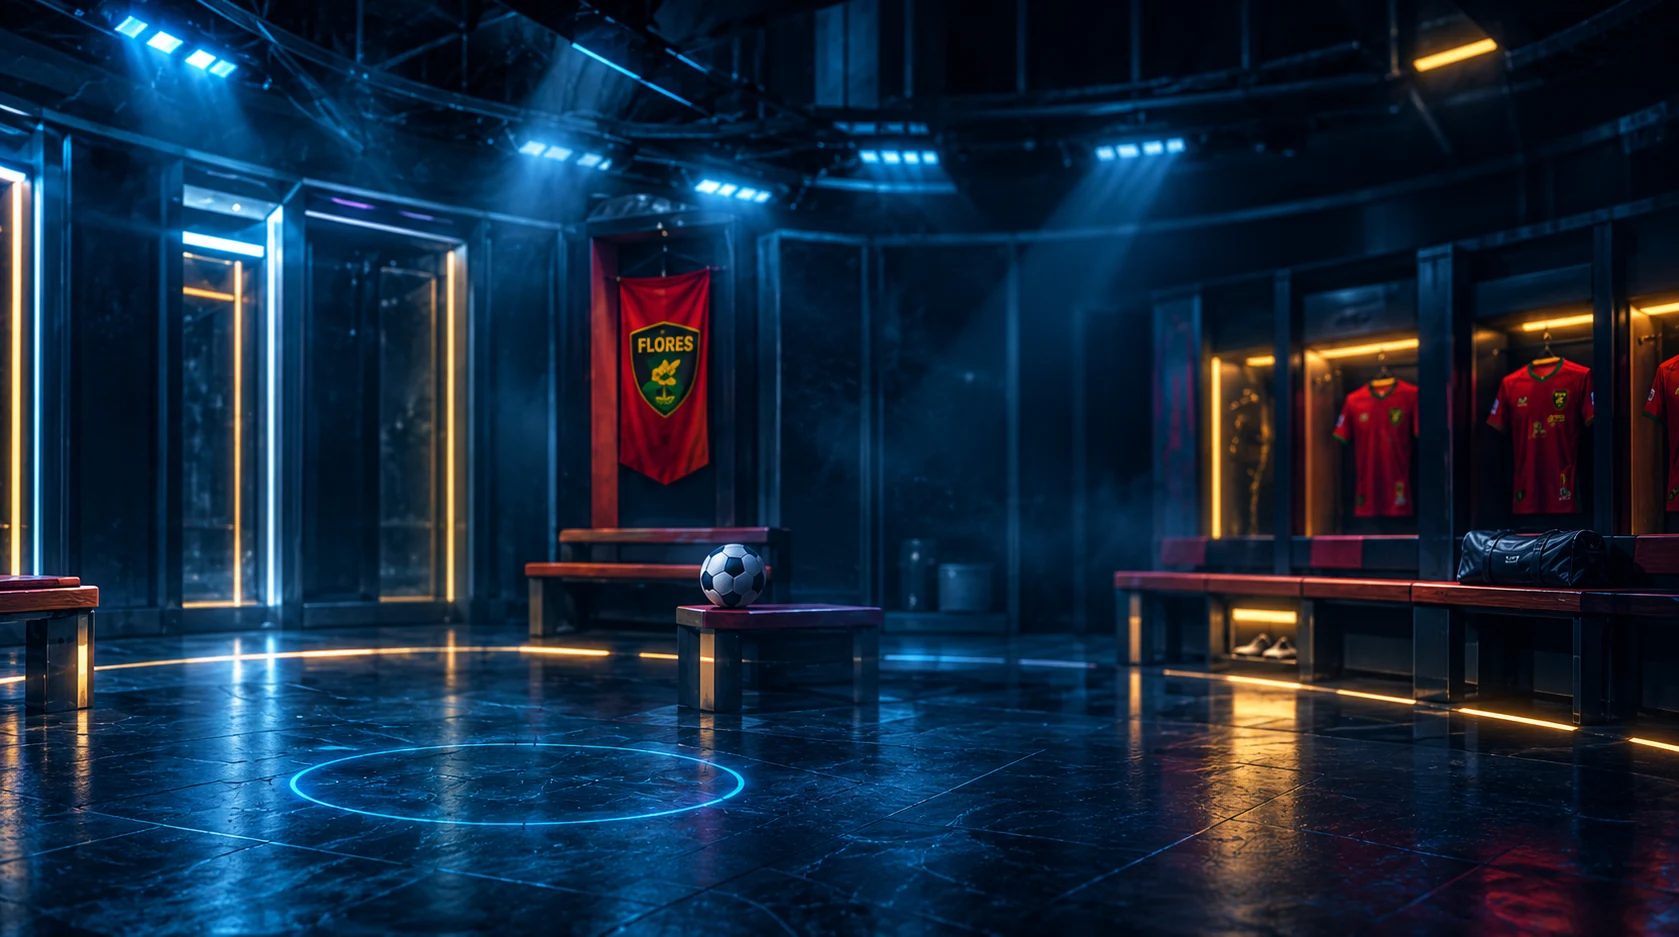
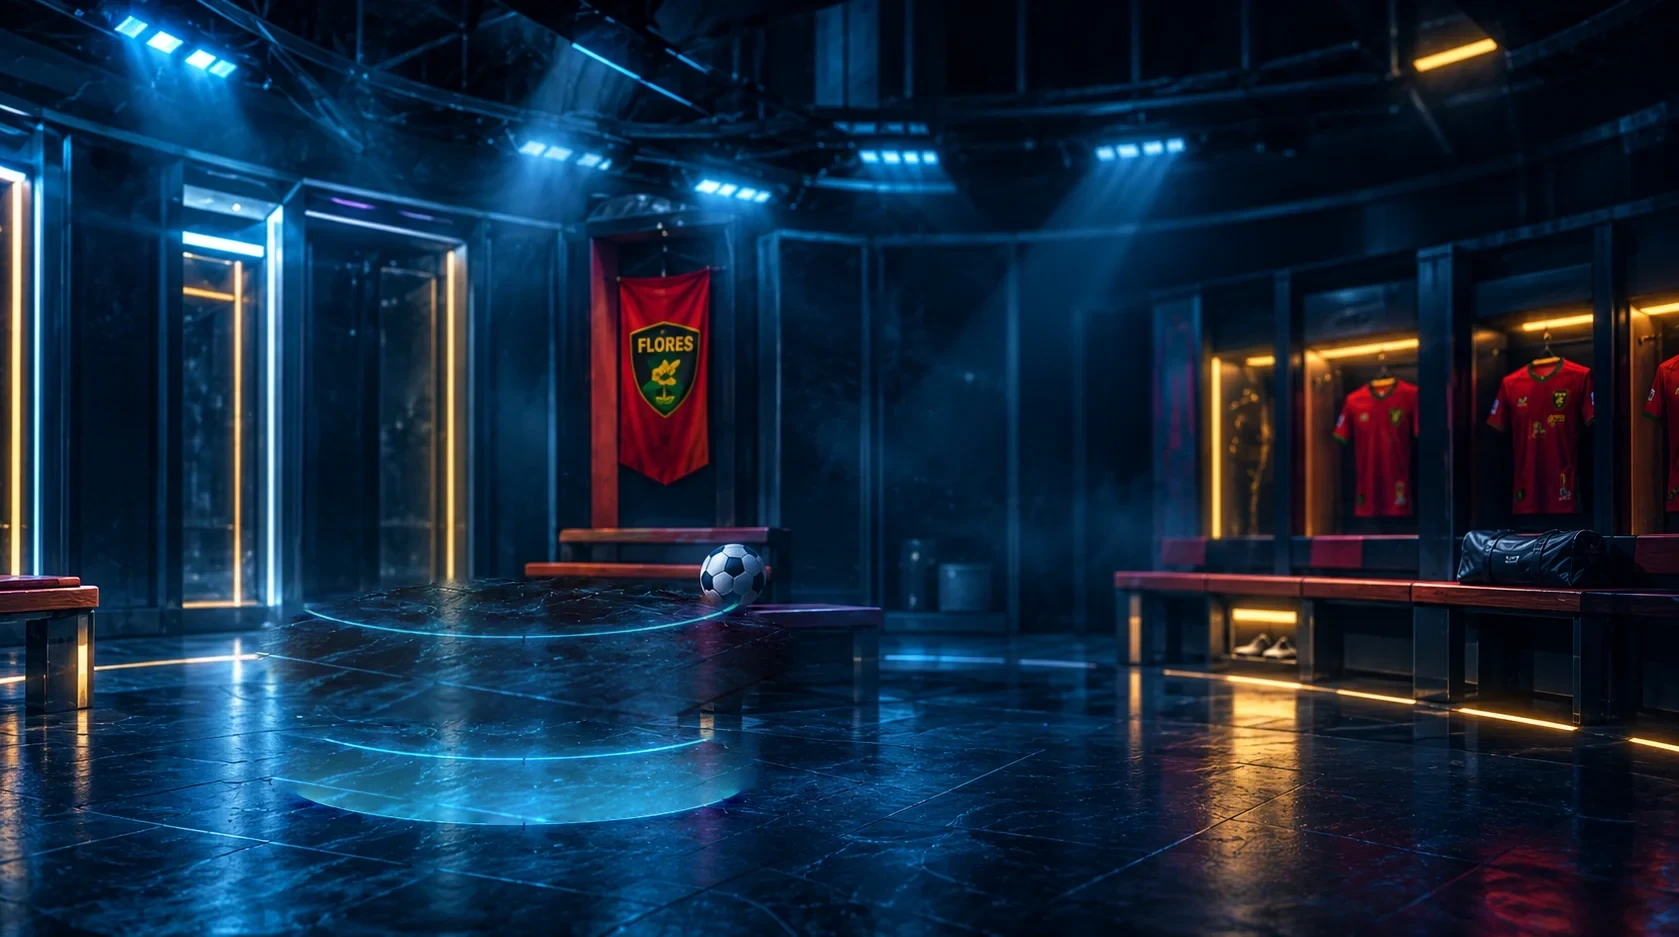
yuyu

Changed region(s): [[0.1549, 0.619, 0.4646, 0.8975]]

diff --git a/src/components/AvatarEditor.css b/src/components/AvatarEditor.css
@@ -1674,3 +1674,38 @@
   .lw-id__character .lw-id__spot { opacity: .35; }
   .lw-id__wardrobe-body { overscroll-behavior-y: contain; -webkit-overflow-scrolling: touch; }
 }
+
+/* V6.18 - Fondo sin aro impreso y apoyo natural bajo el avatar.
+   El vestuario no contiene un personaje: Avatar2D sigue siendo interactivo. */
+.lw-id__ring {
+  left: 50% !important;
+  width: min(44%, 150px) !important;
+  height: 12px !important;
+  transform: translateX(-50%) !important;
+  border: 0 !important;
+  background: radial-gradient(ellipse, rgba(0,0,0,.42), rgba(0,0,0,0) 73%) !important;
+  box-shadow: none !important;
+}
+@media (max-width:860px) {
+  .lw-id__ring { bottom: 2% !important; }
+  .lw-id__stage::before { background-image: linear-gradient(90deg, rgba(2,12,22,.4), transparent 35%, rgba(2,12,22,.24)), url('../assets/flores-locker-room.webp') !important; }
+}
+
+/* V6.19 — escenario sin aro, sombra de contacto y panel móvil navegable. */
+.lw-id__ring { display: none !important; }
+@media (max-width: 860px) {
+  .lw-id__stage { isolation: isolate; }
+  .lw-id__character .lw-id__spot { opacity: .18 !important; }
+  .lw-id__panel--identity { display: flex; flex-direction: column; min-height: 0; overflow: hidden; }
+  .lw-id__panel--identity > .lw-id__scroll {
+    display: block; flex: 1 1 0; min-height: 0; max-height: 100%;
+    overflow-y: auto !important; overflow-x: hidden !important;
+    -webkit-overflow-scrolling: touch; overscroll-behavior-y: contain;
+    touch-action: pan-y; padding-bottom: max(38px, env(safe-area-inset-bottom, 0px));
+    scrollbar-width: thin; scrollbar-color: #0ac5db #062233;
+  }
+  .lw-id__panel--identity > .lw-id__scroll::-webkit-scrollbar { width: 4px; }
+  .lw-id__panel--identity > .lw-id__scroll::-webkit-scrollbar-thumb { background: #0ac5db; border-radius: 6px; }
+  .lw-id__panel--identity > .lw-id__seg { flex: 0 0 auto; }
+  .lw-id__wardrobe-body { padding-bottom: 38px !important; }
+}
